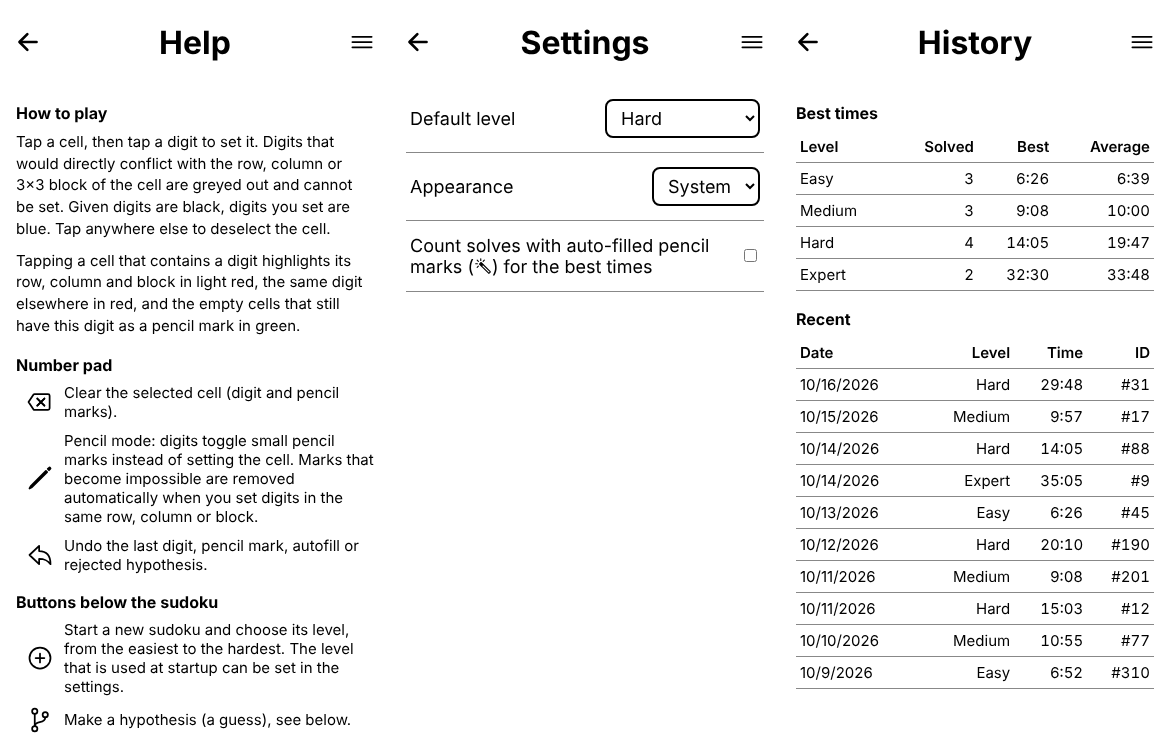
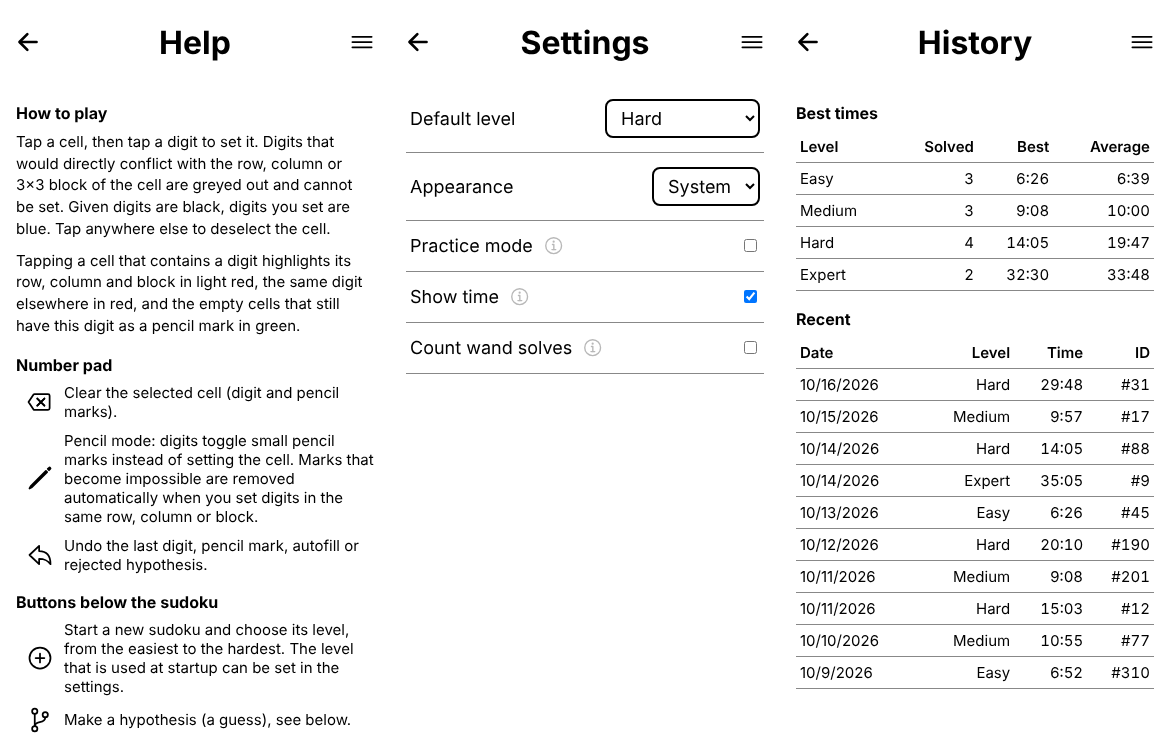
Settings: short labels with an info button that opens the explanation
Claude-Session: https://claude.ai/code/session_019tPUdAuC1s5iG6GZtfpbmG

Changed region(s): [[0.3385, 0.3108, 0.6154, 0.4041], [0.3385, 0.4662, 0.4923, 0.4973], [0.6154, 0.373, 0.6462, 0.4041]]

diff --git a/src/pages.ts b/src/pages.ts
@@ -113,7 +113,44 @@ function toggleMenu() {
   byId("menu-btn").setAttribute("aria-expanded", String(!menu.hidden));
 }
 
+// Longer explanations of the toggle settings, shown by their info buttons
+const SETTING_INFO: { [key: string]: { title: string; text: string } } = {
+  practice: {
+    title: "Practice mode",
+    text:
+      "Practise without a clock. The time is neither shown nor measured, and solved " +
+      "sudokus are not recorded in the history, so they do not count for the best times. " +
+      "This also holds for a sudoku on which you turn the practice mode off again before " +
+      "you finish it: restart it (tools) for a timed attempt.",
+  },
+  "show-time": {
+    title: "Show time",
+    text:
+      "Shows the time below the buttons. When it is off, the solving is still timed and " +
+      "recorded as usual, and the time of a solved sudoku is shown when you finish it. " +
+      "Not available in the practice mode, where no time is shown.",
+  },
+  "count-wand": {
+    title: "Count wand solves",
+    text:
+      "Solves with auto-filled pencil marks (the magic wand in the tools) only count for " +
+      "the best and average times if this is on. They are always recorded in the " +
+      "history, marked with the wand.",
+  },
+};
+
 function setupSettings() {
+  document.querySelectorAll<HTMLButtonElement>(".info-btn").forEach((btn) =>
+    btn.addEventListener("click", (e) => {
+      // The button is part of the label of the setting: do not toggle it
+      e.preventDefault();
+      e.stopPropagation();
+      const info = SETTING_INFO[btn.dataset.info!];
+      byId("info-title").textContent = info.title;
+      byId("info-desc").textContent = info.text;
+      byId<HTMLDialogElement>("info").showModal();
+    })
+  );
   const level = byId<HTMLSelectElement>("setting-level");
   LEVEL_NAMES.forEach((name, i) => level.add(new Option(name, String(i))));
   const theme = byId<HTMLSelectElement>("setting-theme");

diff --git a/src/index.html b/src/index.html
@@ -252,16 +252,16 @@
             <option value="dark">Dark</option>
           </select>
         </label>
-        <label class="setting">
-          <span>Practice mode: no time, solved sudokus are not counted in the history</span>
+        <label class="setting" for="setting-practice">
+          <span class="setting-name">Practice mode <button type="button" class="info-btn" data-info="practice" title="More about: Practice mode" aria-label="More about: Practice mode"><svg class="icon" aria-hidden="true"><use href="#i-information-circle-outline" /></svg></button></span>
           <input type="checkbox" id="setting-practice" />
         </label>
-        <label class="setting">
-          <span>Show time (not in practice mode)</span>
+        <label class="setting" for="setting-show-time">
+          <span class="setting-name">Show time <button type="button" class="info-btn" data-info="show-time" title="More about: Show time" aria-label="More about: Show time"><svg class="icon" aria-hidden="true"><use href="#i-information-circle-outline" /></svg></button></span>
           <input type="checkbox" id="setting-show-time" />
         </label>
-        <label class="setting">
-          <span>Count solves with auto-filled pencil marks (<svg class="icon inline-icon" aria-hidden="true"><use href="#i-color-wand-outline" /></svg>) for the best times</span>
+        <label class="setting" for="setting-count-autofill">
+          <span class="setting-name">Count wand solves <button type="button" class="info-btn" data-info="count-wand" title="More about: Count wand solves" aria-label="More about: Count wand solves"><svg class="icon" aria-hidden="true"><use href="#i-information-circle-outline" /></svg></button></span>
           <input type="checkbox" id="setting-count-autofill" />
         </label>
       </section>

diff --git a/src/style.css b/src/style.css
@@ -347,6 +347,34 @@ h1 {
     border-bottom: 1px solid var(--grid-line-thin);
 }
 
+.setting-name {
+    display: flex;
+    align-items: center;
+    gap: 2px;
+}
+
+/* Info button next to a short label: opens the explanation in a dialog */
+.info-btn {
+    border: none;
+    background: none;
+    color: var(--disabled);
+    padding: 8px;
+    margin: -8px 0;
+    font-size: 22px;
+    line-height: 0;
+    border-radius: 8px;
+    cursor: pointer;
+}
+
+.info-btn .icon {
+    margin: 0;
+}
+
+.info-btn:focus,
+.info-btn:focus-visible {
+    outline: none;
+}
+
 .setting select option {
     background: var(--bg);
     color: var(--fg);
